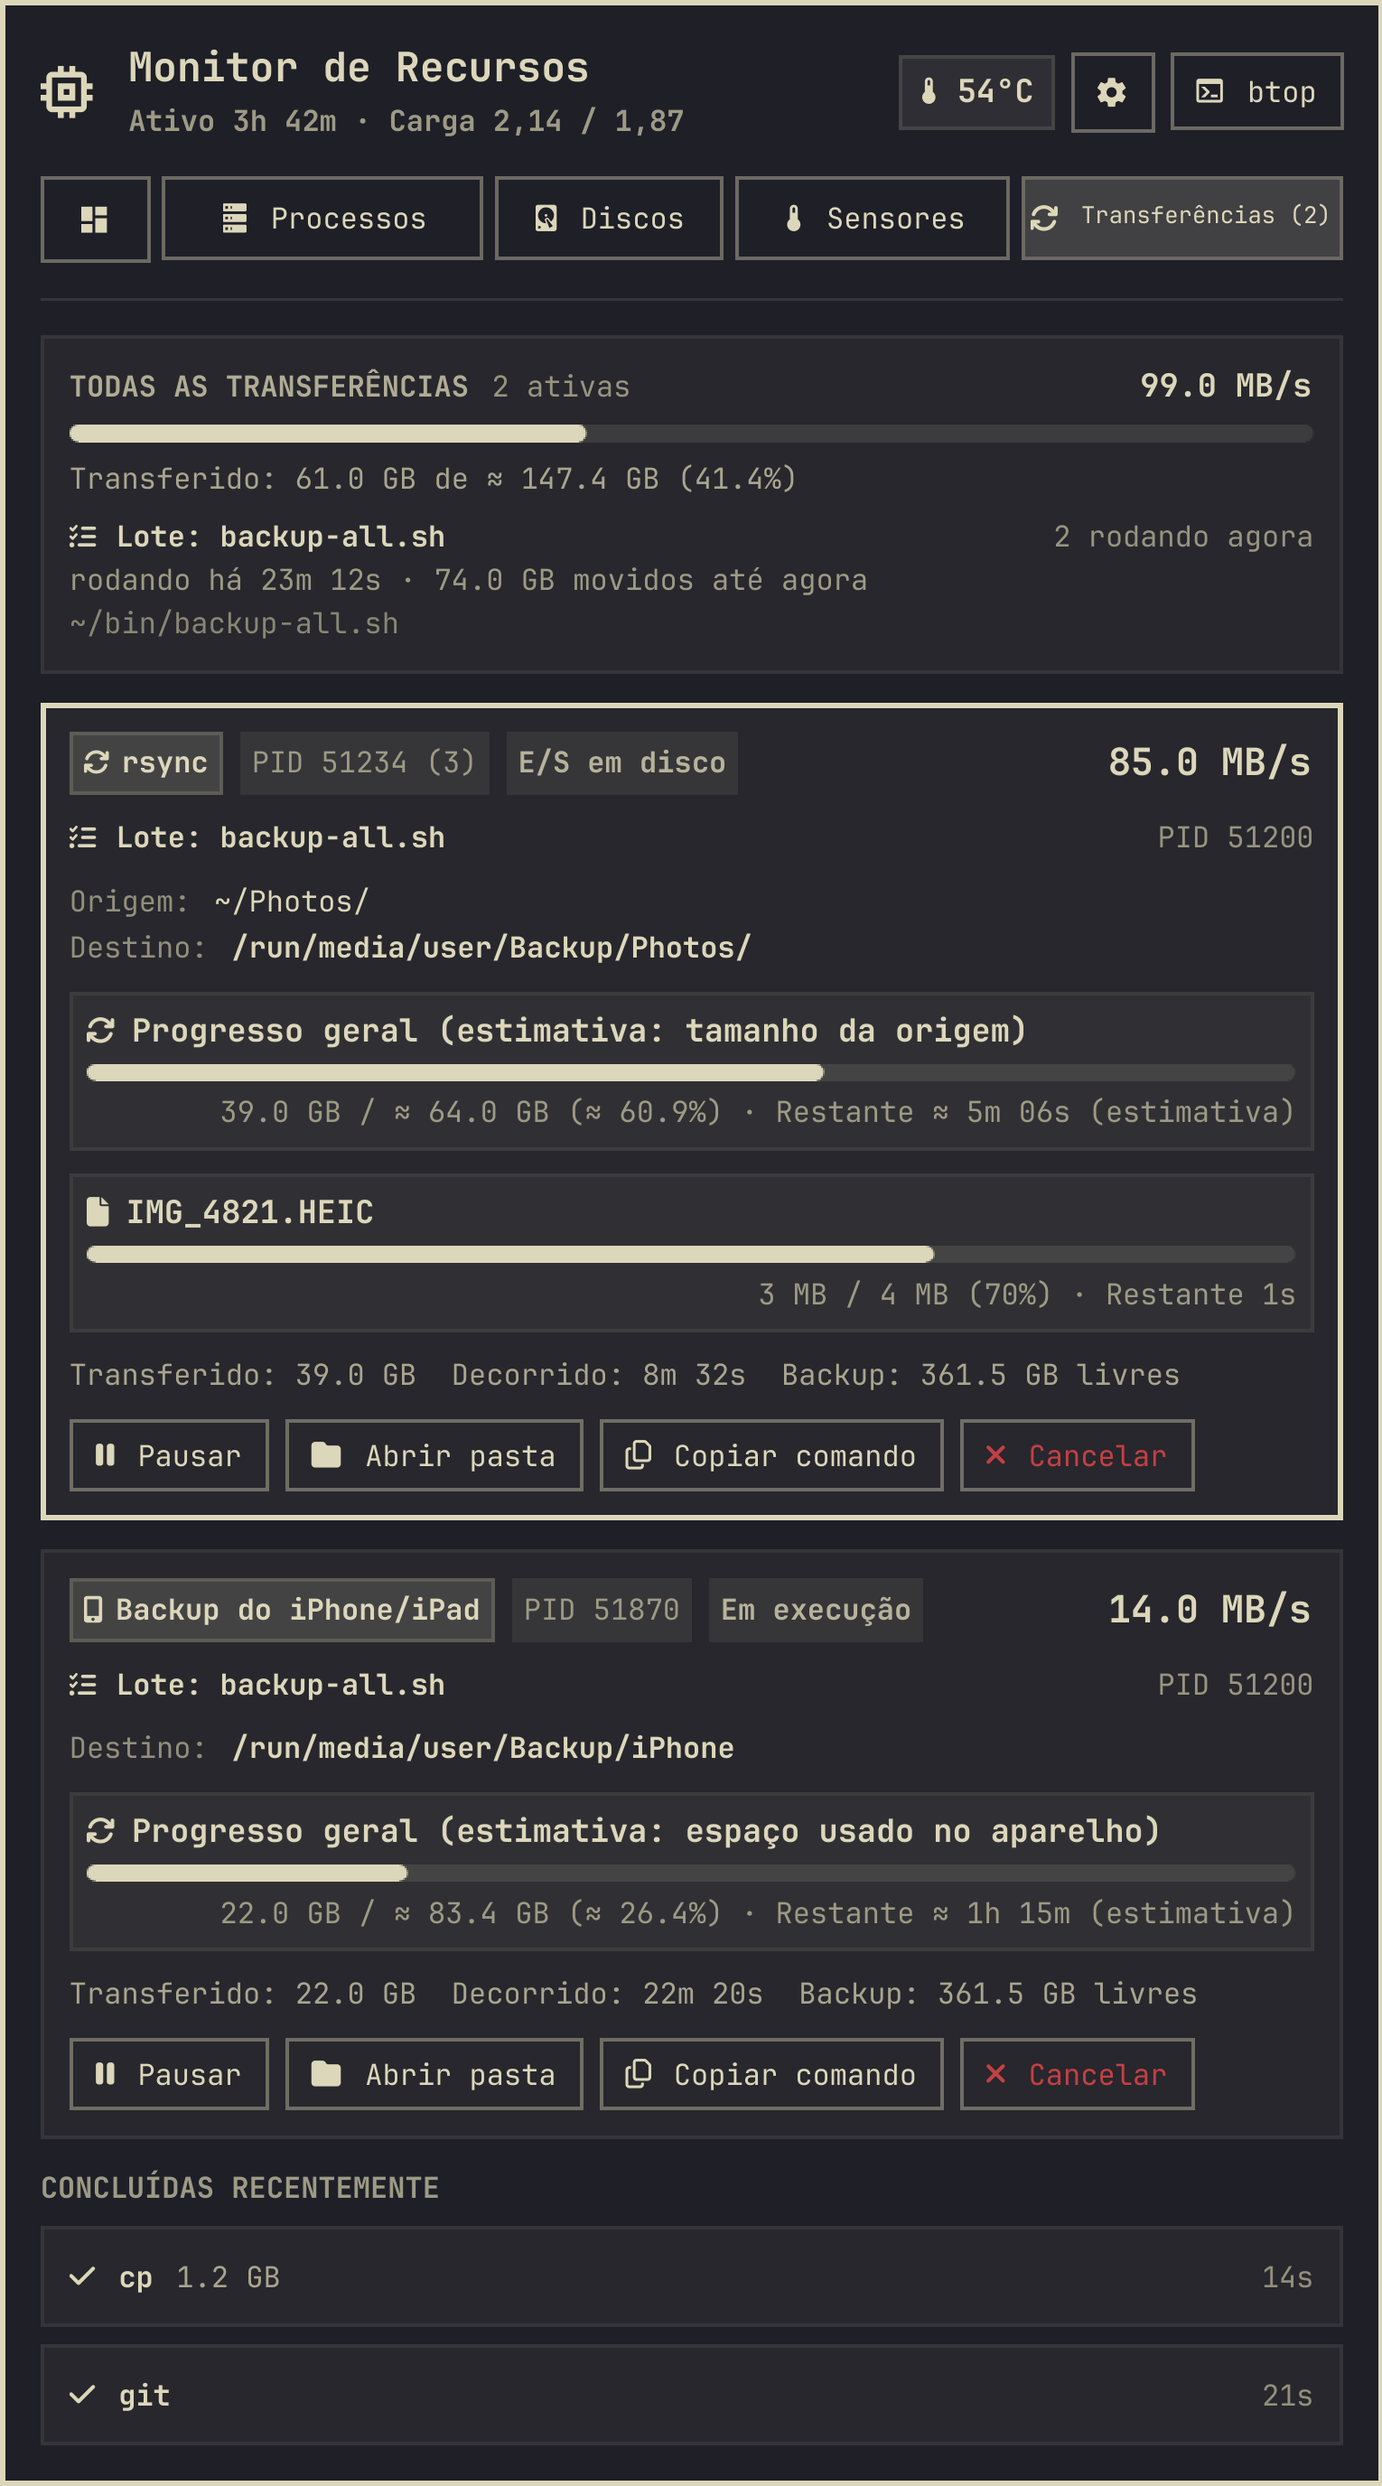
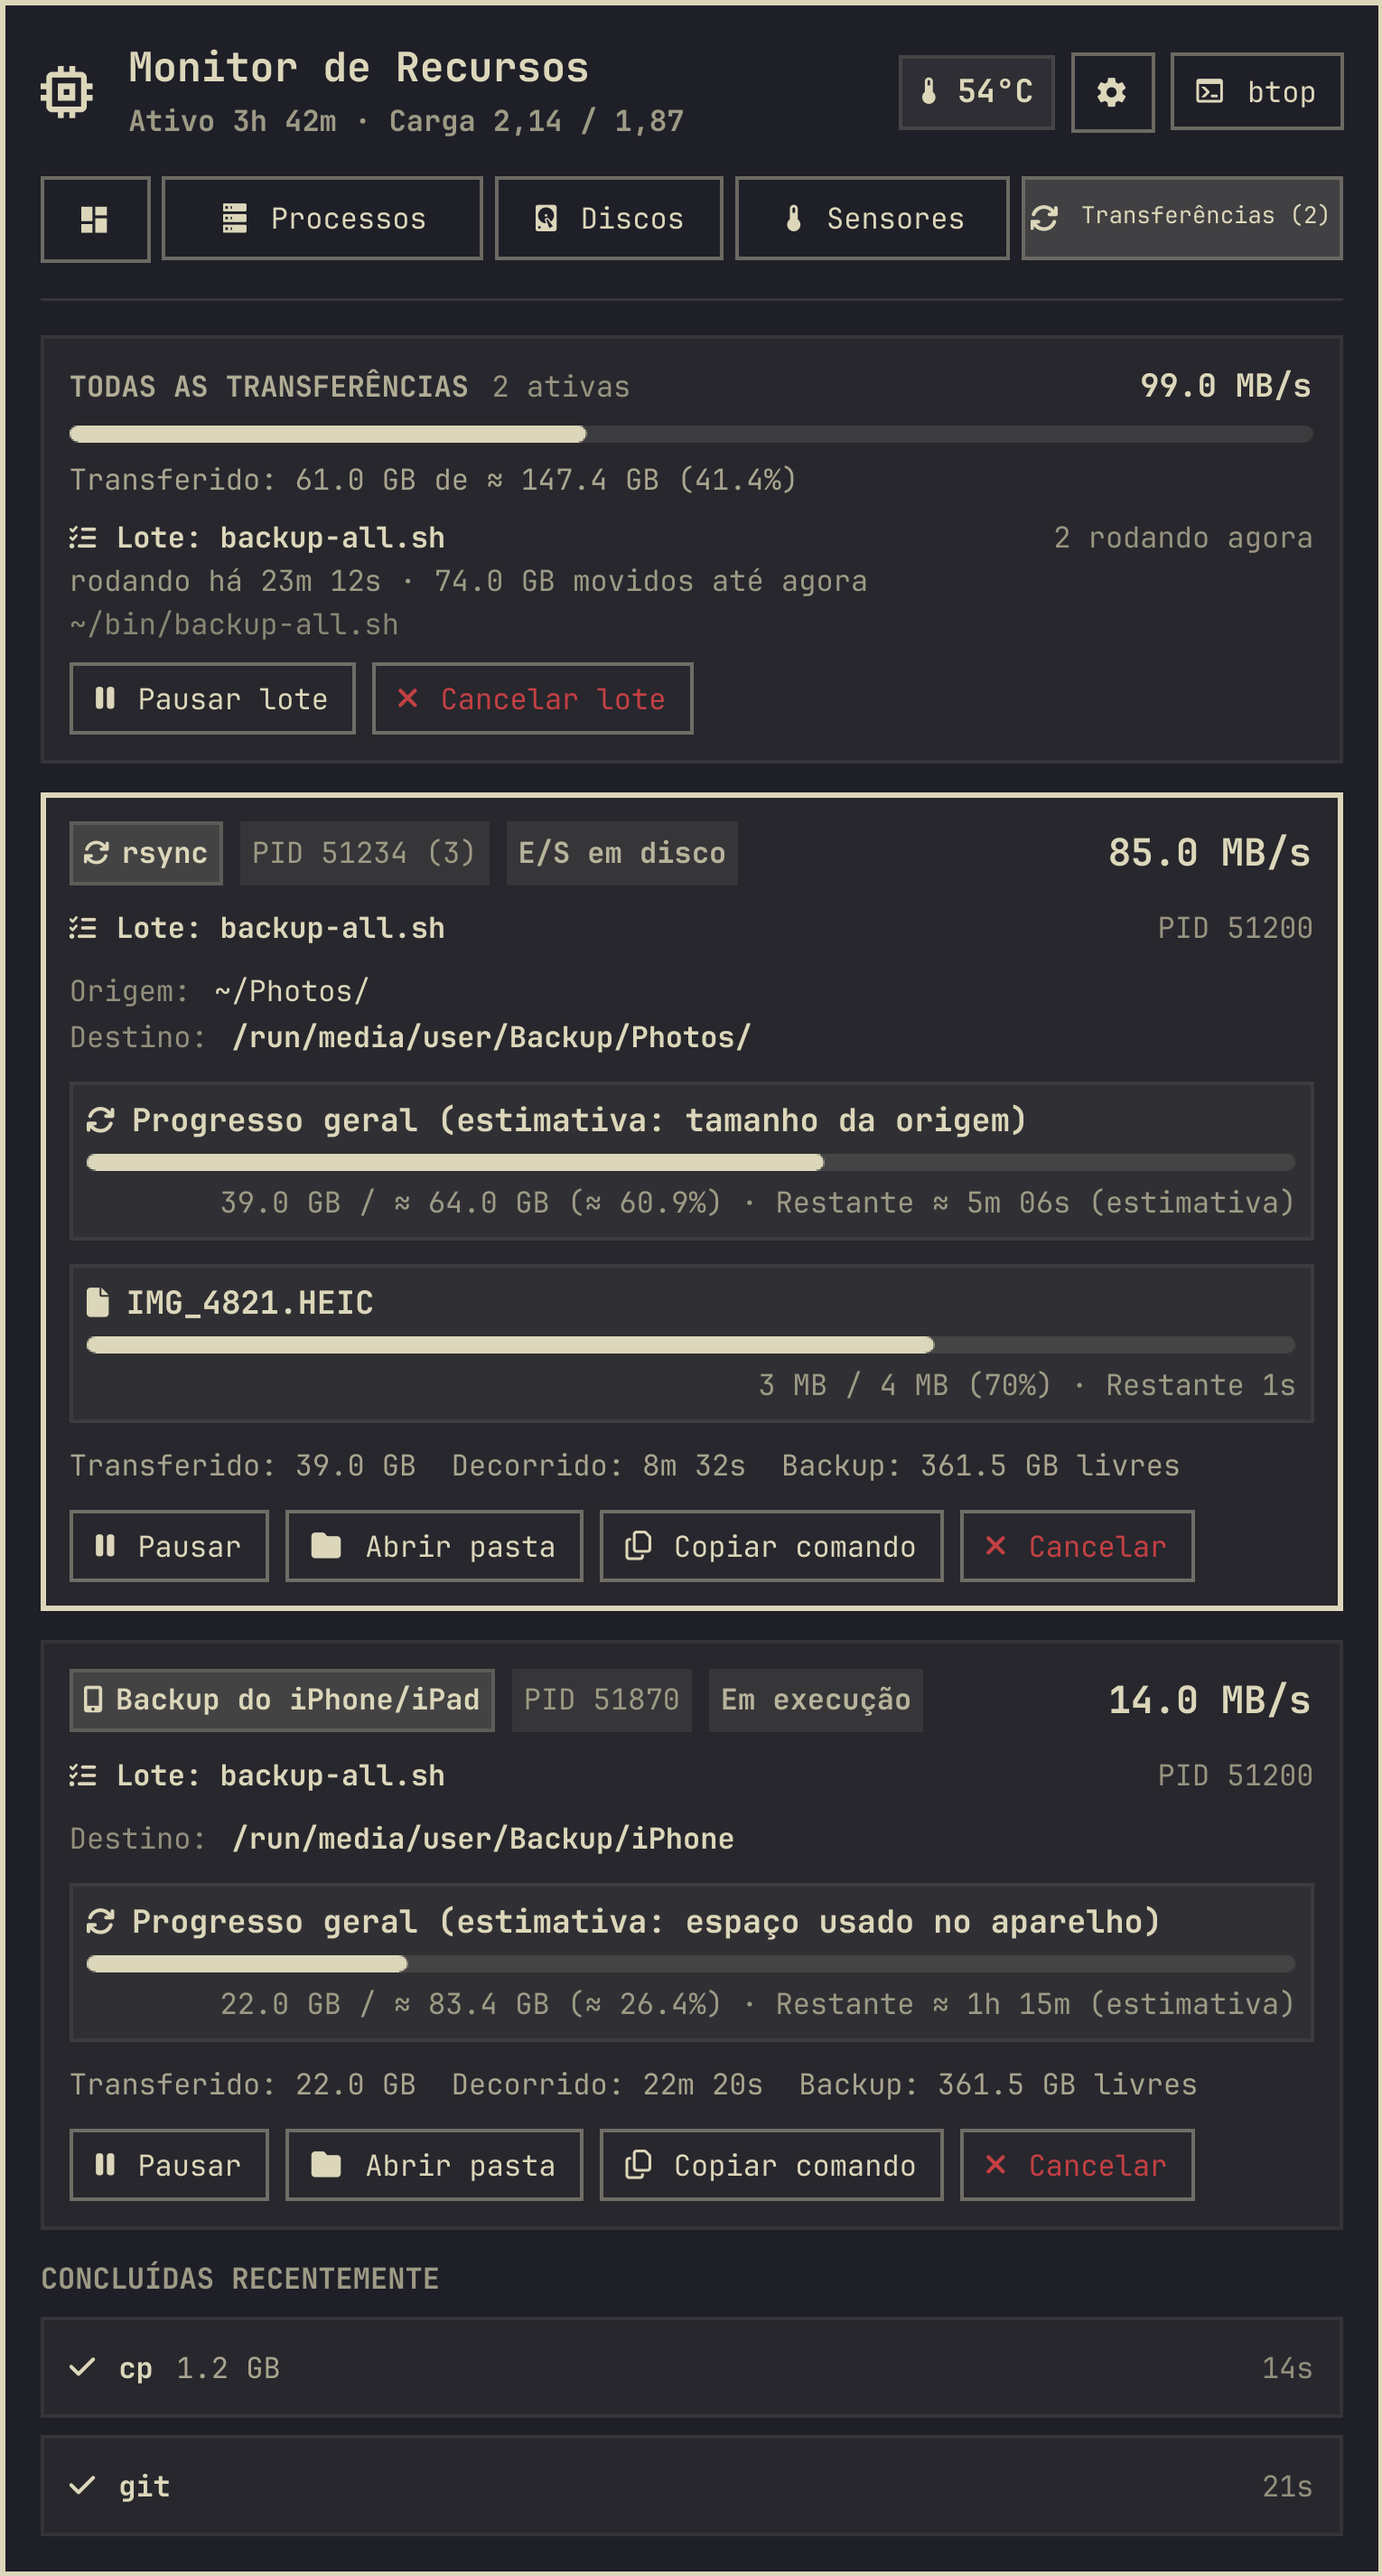
Transfers: pause, resume and cancel a whole batch
Cancelling one transfer only ends that step and the script moves on; the batch
buttons signal the script and everything under it, script first.

diff --git a/ResourcesView.qml b/ResourcesView.qml
@@ -1382,8 +1382,9 @@ PanelKeyCatcher {
                   Layout.fillWidth: true
                 }
                 PlainText {
-                  text: tr.t("transfers.batchSteps").arg(modelData.transfers)
-                  color: Qt.darker(monitor.fgColor, 1.45)
+                  text: modelData.state === "paused" ? tr.t("transfers.batchPaused") : tr.t("transfers.batchSteps").arg(modelData.transfers)
+                  color: modelData.state === "paused" ? monitor.urgentColor : Qt.darker(monitor.fgColor, 1.45)
+                  font.bold: modelData.state === "paused"
                   font.pixelSize: Style.font.caption
                 }
               }
@@ -1399,6 +1400,29 @@ PanelKeyCatcher {
                 color: Qt.darker(monitor.fgColor, 1.6)
                 font.pixelSize: Style.font.caption
                 elide: Text.ElideMiddle
+              }
+
+              // The whole script: its current step and the ones still to come.
+              Item { width: 1; height: Style.space(4) }
+              Row {
+                width: parent.width
+                spacing: Style.space(6)
+
+                ActionBtn {
+                  text: modelData.state === "paused" ? tr.t("transfers.action.resumeBatch") : tr.t("transfers.action.pauseBatch")
+                  iconText: modelData.state === "paused" ? "\uf04b" : "\uf04c"
+                  onClicked: {
+                    if (modelData.state === "paused") monitor.resumeTransfer(modelData.pid)
+                    else monitor.pauseTransfer(modelData.pid)
+                  }
+                }
+
+                ActionBtn {
+                  text: tr.t("transfers.action.cancelBatch")
+                  iconText: "\uf00d"
+                  foreground: monitor.urgentColor
+                  onClicked: monitor.cancelTransfer(modelData.pid)
+                }
               }
             }
           }

diff --git a/collect-transfers.py b/collect-transfers.py
@@ -780,6 +780,16 @@ def find_batch(pid, read=read_proc, uid=None):
     return None
 
 
+def process_state(pid):
+    """The state letter of a process (R, S, D, T, Z), "" when it is gone."""
+    try:
+        with open(f"/proc/{pid}/stat", "r") as f:
+            data = f.read()
+        return data[data.rindex(")") + 2:].split()[0]
+    except (OSError, ValueError, IndexError):
+        return ""
+
+
 def process_elapsed(start_ticks, now):
     """Seconds a process has been running, from its start time in clock ticks."""
     try:
@@ -1052,6 +1062,7 @@ def collect_all_transfers():
                 # so this is everything the script moved so far.
                 b_rb, b_wb, _rss, _state = get_tree_io_and_stat(b_tree)
                 batch["total_bytes"] = max(b_rb, b_wb)
+                batch["state"] = "paused" if process_state(batch["pid"]) == "T" else "running"
                 batch["elapsed_sec"] = process_elapsed(batch.pop("start_ticks"), now)
                 batch["elapsed_str"] = format_eta(batch["elapsed_sec"])
 

diff --git a/dev/tests/test_collect_transfers.py b/dev/tests/test_collect_transfers.py
@@ -195,6 +195,20 @@ class Batch(unittest.TestCase):
         self.assertEqual(ct.find_batch(50, read=read, uid=1000)["name"], "make deploy")
 
 
+class ProcessState(unittest.TestCase):
+    def test_reads_the_state_of_a_live_process_and_of_none(self):
+        self.assertIn(ct.process_state(os.getpid()), ("R", "S"))
+        self.assertEqual(ct.process_state(2 ** 31 - 1), "")
+
+    def test_a_batch_is_stopped_from_the_script_down(self):
+        # Pause/cancel walk the tree root first, so the script cannot start its
+        # next step while its current one is being signalled.
+        with mock.patch.object(ct, "get_process_tree", return_value=[30, 40, 50]), \
+                mock.patch.object(ct.os, "kill") as kill, mock.patch("builtins.print"):
+            ct.handle_action("cancel", "30")
+        self.assertEqual([c[0][0] for c in kill.call_args_list], [30, 40, 50])
+
+
 class Summary(unittest.TestCase):
     def test_totals_and_batches(self):
         b = {"pid": 7, "name": "up.sh"}

diff --git a/README.md b/README.md
@@ -29,7 +29,9 @@ downloads, iPhone/iPad backups and more) with speed, progress and ETA.
   directory), a folder's total size is worked out in the background with `du`, and a card
   at the top adds everything up. A transfer started by a script (`bash backup.sh`, a
   Python script, `make`) is shown as a step of that **batch**, with the script's path, how
-  long it has been running and how much it has moved so far.
+  long it has been running and how much it has moved so far; **Pause batch** and **Cancel
+  batch** act on the whole script (cancelling one transfer only ends that step, and the
+  script moves on to the next).
 - **iPhone/iPad backups** (`idevicebackup2 backup`): the backup size is not known up front,
   so progress and ETA are estimated from the space used on the device and marked with
   **≈** and *(estimate)*.
